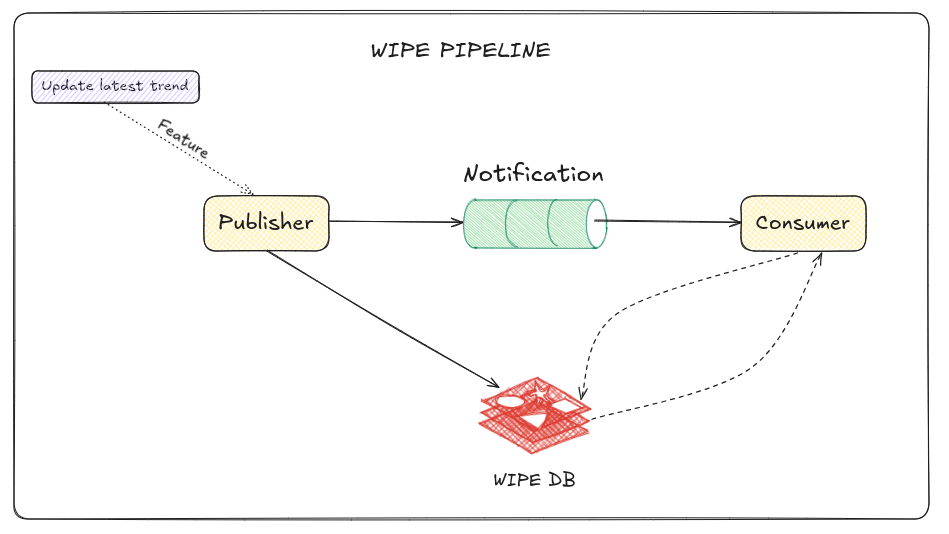
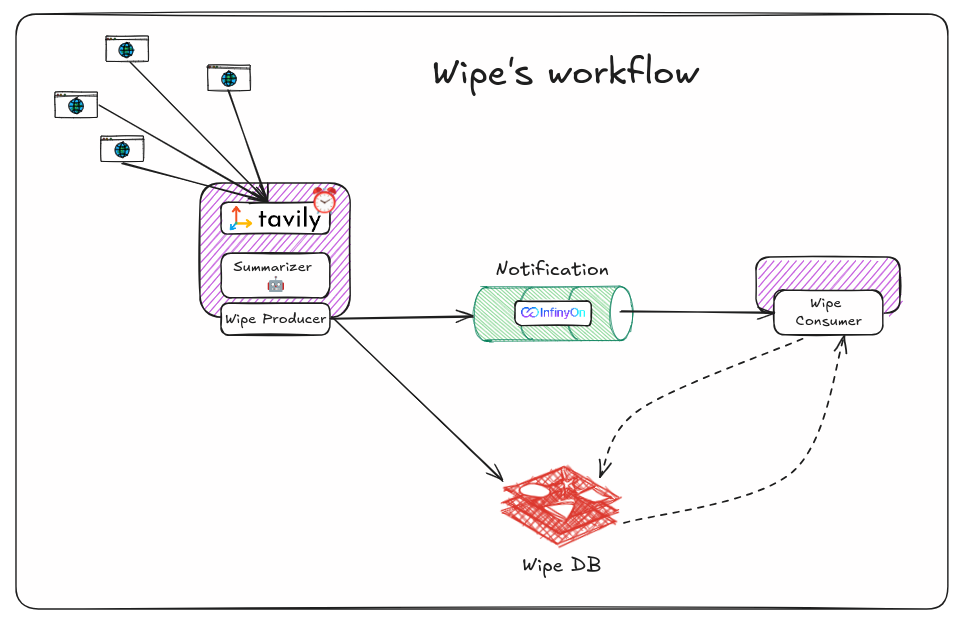
...

diff --git a/controller/pubsub.py b/controller/pubsub.py
@@ -2,7 +2,7 @@
     Defines Pub/Sub logic for the AI news update feature.
 """
 from wipe.wipe_producer import WipeProducer
-from wipe.wipe_customer import WIPEConsumer
+from wipe.wipe_consumer import WIPEConsumer
 from wipe.wipe_redis import WIPEDB
 from wipe.helpers import read_yaml, str_to_json, json_to_str, set_logger
 

diff --git a/README.md b/README.md
@@ -4,7 +4,7 @@
 
 ## Introduction
 
-**Tired of the tears caused by technical glitches?** We're here to **wipe** them away. Wip delivers real-time updates on the latest AI trends, ensuring you stay ahead of the curve.
+**Tired of Falling Behind in the Fast-Paced World of AI?** We're here to **wipe** them away. Wip delivers real-time updates on the latest AI trends, ensuring you stay ahead of the curve.
 
 ![](./asset/wipe_pipe.png)
 
@@ -70,13 +70,13 @@ python consumer.py
 
 ### Producer
 
-The Producer automatically get latest trends from the Internet and use AI to summarize the website every 10 seconds. After the summarization is done, it makes an event to notify its customers.
+The Producer automatically gets the latest trends from the Internet and uses AI to summarize the website every 10 seconds. After the summarization is done, it makes an event to notify its customers.
 
 ![](./asset/wipe_pub.png)
 
 ### Customer
 
-The Customer retrieve a notification from its producer. In this experiment, I set it would randomly choose whether to "read" the news from the notification or not. 
+The Customer retrieves a notification from its producer. In this experiment, I set it to randomly choose whether to "read" the news from the notification or not.
 
 ![](./asset/wipe_sub.png)
 
